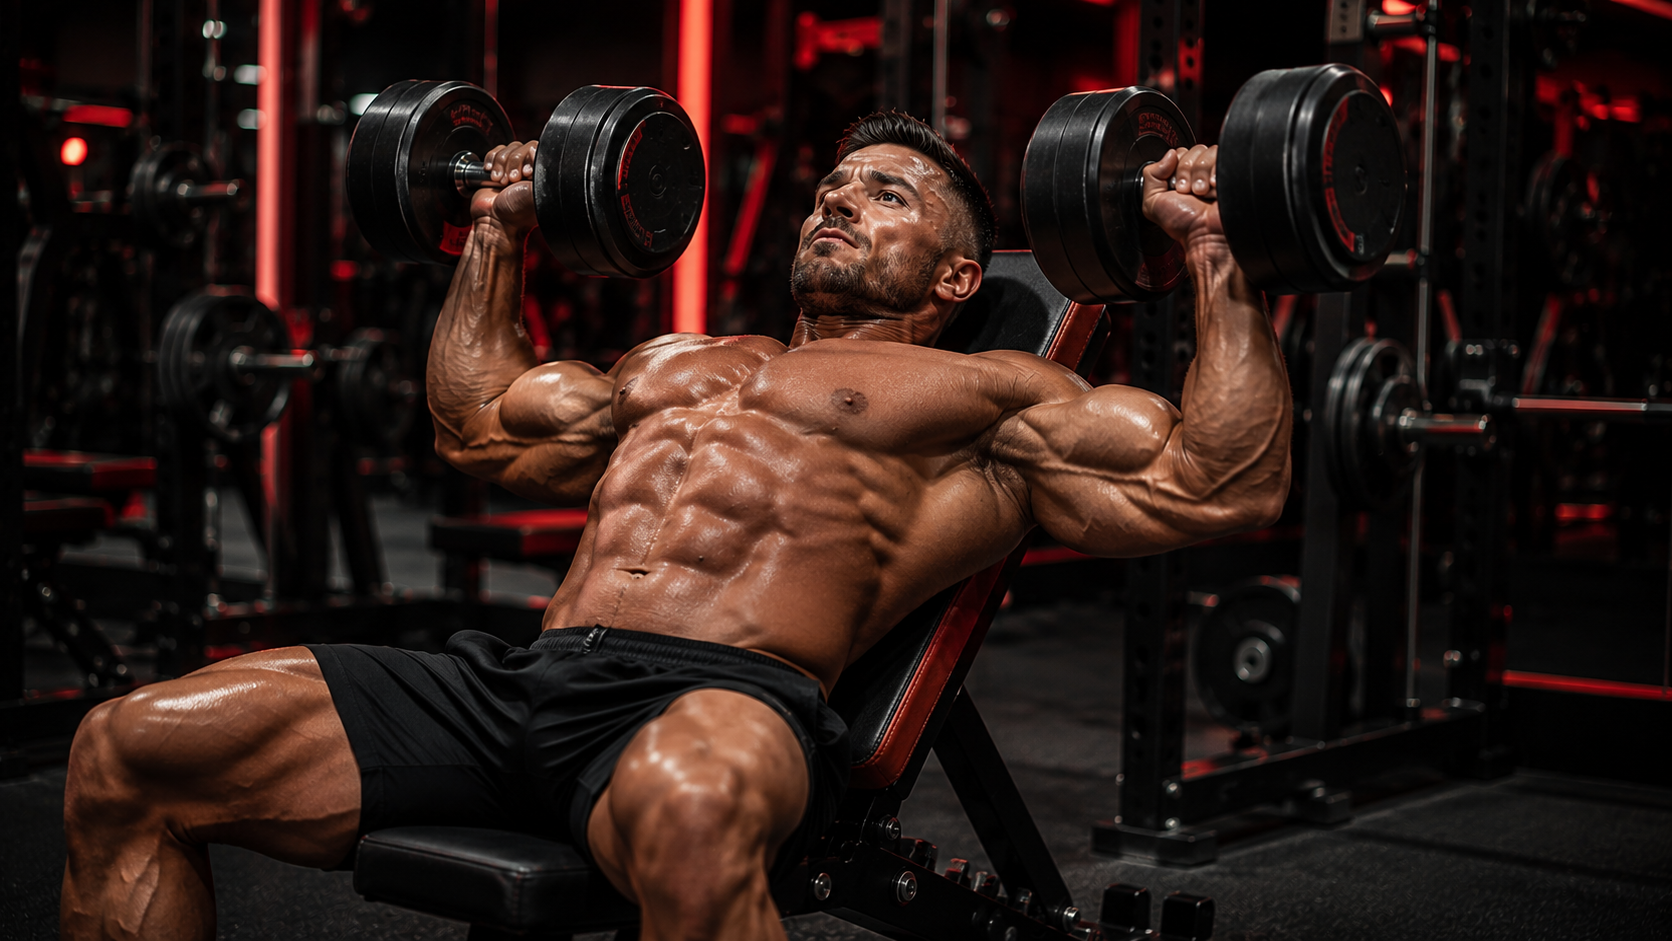
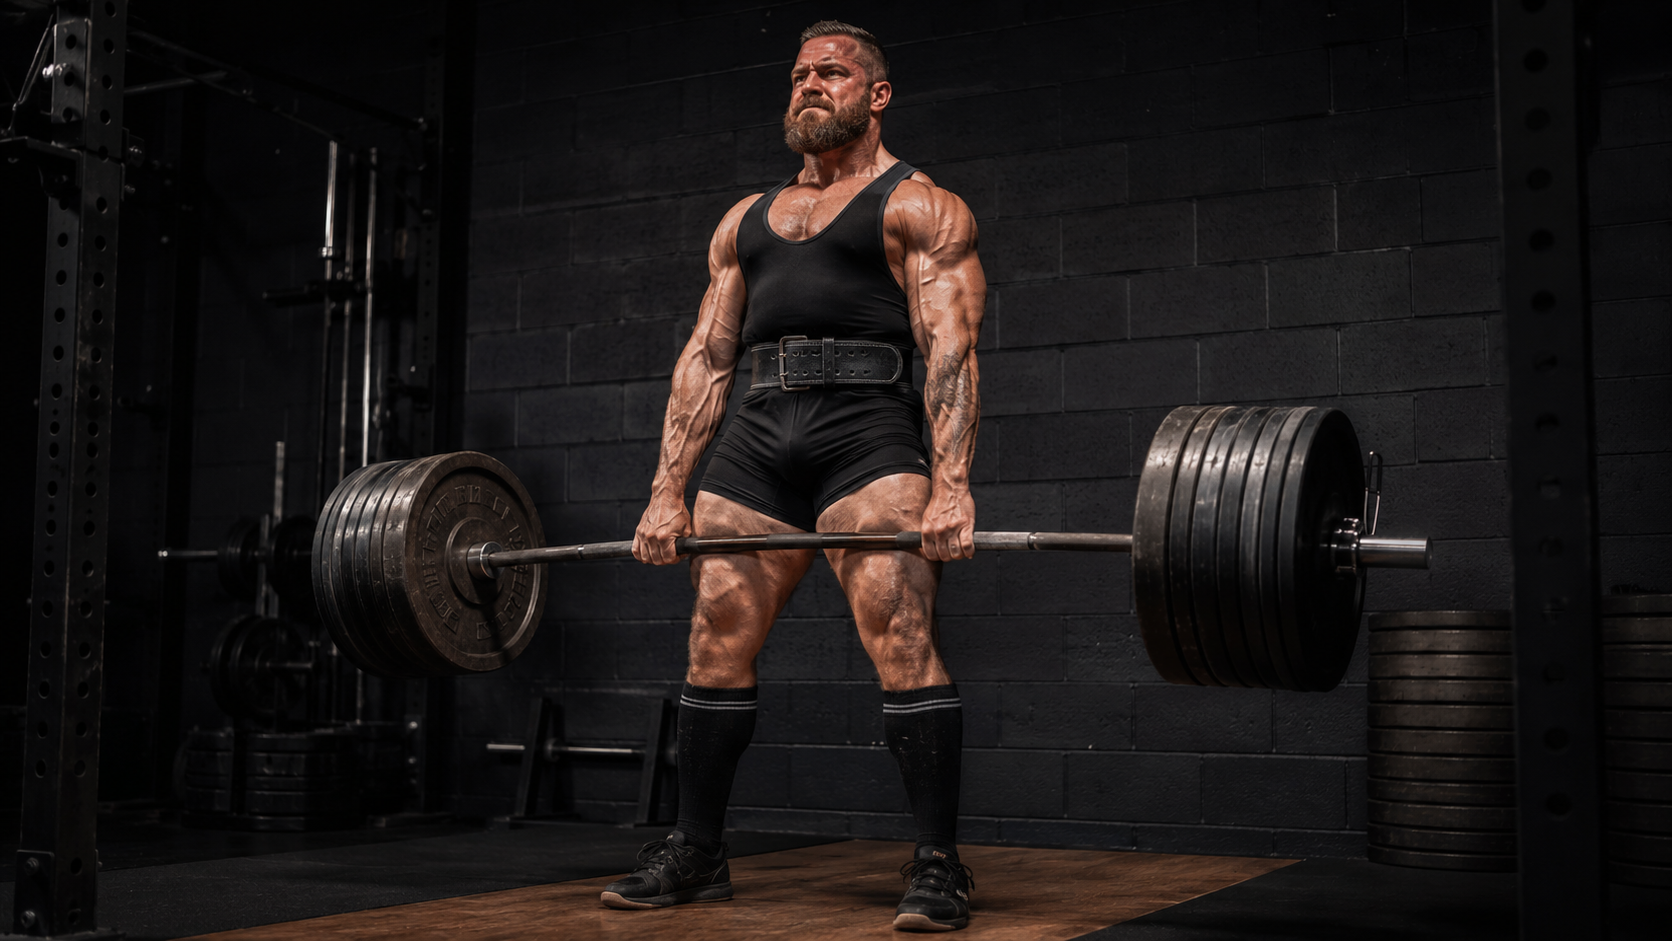
refine add class experience with template selection, image previews, improved form layout and trainer workflow enhancements

diff --git a/src/app/dashboard/add-class/page.jsx b/src/app/dashboard/add-class/page.jsx
@@ -7,6 +7,7 @@ import Swal from "sweetalert2";
 import PrivateRoute from "@/components/shared/PrivateRoute";
 import { authClient } from "@/lib/auth-client";
 import Image from "next/image";
+import { useRouter } from "next/navigation";
 
 const durations = [
     "30 Minutes",
@@ -135,11 +136,11 @@ export default function AddClassPage() {
     const [loading, setLoading] = useState(false);
     const [selectedTemplate, setSelectedTemplate] = useState(null);
     const { data: session } = authClient.useSession();
-
+    const router = useRouter()
     const trainerName = session?.user?.name;
     const trainerEmail = session?.user?.email;
 
-    
+
 
     const {
         register,
@@ -148,7 +149,7 @@ export default function AddClassPage() {
         reset,
     } = useForm();
 
-   
+
 
     const onSubmit = async (data) => {
         if (!selectedTemplate) {
@@ -211,6 +212,7 @@ export default function AddClassPage() {
                 });
 
                 reset();
+                router.push("/dashboard/my-classes");
             }
         } catch (error) {
             Swal.fire({
@@ -323,13 +325,17 @@ export default function AddClassPage() {
                                     className="overflow-hidden rounded-3xl border border-white/10 bg-white/5"
                                 >
                                     <div className="grid md:grid-cols-[320px_1fr]">
-                                        <Image
-                                            src={selectedTemplate.image}
-                                            alt={selectedTemplate.className}
-                                            width={500}
-                                            height={300}
-                                            className="h-full min-h-[240px] w-full object-cover"
-                                        />
+                                        <div className="relative h-[240px]">
+                                            <Image
+                                                src={selectedTemplate.image}
+                                                alt={selectedTemplate.className}
+                                                fill
+                                                priority
+                                                
+                                                sizes="(max-width: 768px) 100vw, 50vw"
+                                                className="object-cover"
+                                            />
+                                        </div>
 
                                         <div className="flex flex-col justify-center p-6">
                                             <span className="mb-3 w-fit rounded-full bg-red-600/20 px-3 py-1 text-sm text-red-400">

diff --git a/src/app/dashboard/my-classes/page.jsx b/src/app/dashboard/my-classes/page.jsx
@@ -127,6 +127,7 @@ const MyClassesPage = () => {
                                     src={item.image}
                                     alt={item.className}
                                     fill
+                                    sizes="(max-width: 768px) 100vw, (max-width: 1280px) 50vw, 33vw"
                                     className="object-cover"
                                 />
                             </div>